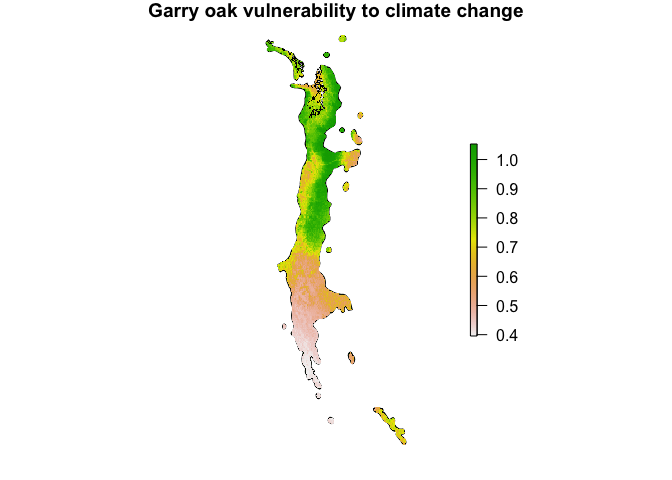
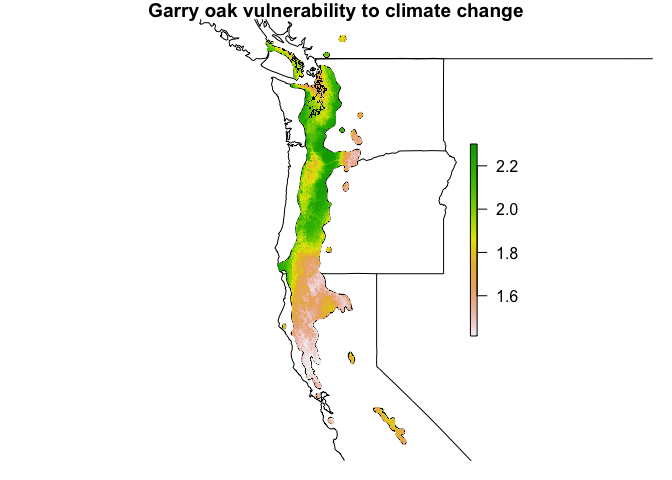
Updated definition of sensitivity.

diff --git a/README.md b/README.md
@@ -111,27 +111,27 @@ mod.cnfa
 #> 
 #> Sensitivity factor: 
 #>   MDR   ISO    TS HMmax CMmin   PWM   PDM    PS   PWQ   PDQ 
-#>  0.38  0.26  0.37  0.31  0.36  0.30  0.12  0.17  0.27  0.08 
+#>  3.33  2.68  3.20  3.00  3.13  2.85  1.83  2.08  2.67  1.50 
 #> 
 #> Percentage of specialization contained in CNFA factors: 
 #>  Marg Spec1 Spec2 Spec3 Spec4 Spec5 Spec6 Spec7 Spec8 Spec9 
 #> 17.36 30.24 16.32 10.20  8.64  6.80  4.33  2.61  2.30  1.21 
 #> 
-#> Overall marginality:  1.191 
+#> Overall marginality:  1.654 
 #> 
-#> Overall sensitivity:  9.213 
+#> Overall sensitivity:  2.691 
 #> 
 #> Significant CNFA factors: 
 #>        Marg Spec1 Spec2 Spec3
-#> PWQ    0.61 -0.03  0.19  0.25
-#> PWM    0.60  0.08 -0.26 -0.27
-#> PS     0.59 -0.12  0.11  0.02
-#> TS    -0.56  0.34  0.54 -0.39
-#> CMmin  0.56  0.54  0.00 -0.49
-#> ISO    0.43 -0.11  0.46  0.05
-#> MDR   -0.11  0.46 -0.59 -0.38
-#> PDM   -0.11 -0.10 -0.09 -0.03
-#> PDQ    0.11  0.00  0.11  0.04
+#> PWQ    0.44 -0.03  0.19  0.25
+#> PWM    0.43  0.08 -0.26 -0.27
+#> PS     0.42 -0.12  0.11  0.02
+#> TS    -0.41  0.34  0.54 -0.39
+#> CMmin  0.40  0.54  0.00 -0.49
+#> ISO    0.31 -0.11  0.46  0.05
+#> MDR   -0.08  0.46 -0.59 -0.38
+#> PDM   -0.08 -0.10 -0.09 -0.03
+#> PDQ    0.08  0.00  0.11  0.04
 #> HMmax -0.02 -0.58  0.07  0.57
 ```
 
@@ -156,7 +156,7 @@ dep
 #>   MDR   ISO    TS HMmax CMmin   PWM   PDM    PS   PWQ   PDQ 
 #>  0.05  0.10  0.22  0.53  0.44  0.23  0.12  0.38  0.23  0.16 
 #> 
-#> Overall departure: 2.317
+#> Overall departure: 0.909
 ```
 
 The departure factor tells us the average amount of change that is expected in each climate variable across the species' range. Using the `exposure_map` function, we can create a habitat map that identifies where we expect the species to be most exposed to climate change.
@@ -178,9 +178,9 @@ vuln
 #> 
 #> Vulnerability factor: 
 #>   MDR   ISO    TS HMmax CMmin   PWM   PDM    PS   PWQ   PDQ 
-#>  0.14  0.16  0.28  0.40  0.40  0.26  0.12  0.26  0.25  0.11 
+#>  0.14  0.16  0.27  0.40  0.38  0.25  0.12  0.24  0.24  0.11 
 #> 
-#> Overall vulnerability: 0.9049
+#> Overall vulnerability: 0.792
 ```
 
 Using the `vulnerability_map` function, we can create a habitat map that identifies where we expect the species to be most vulnerable to climate change.
